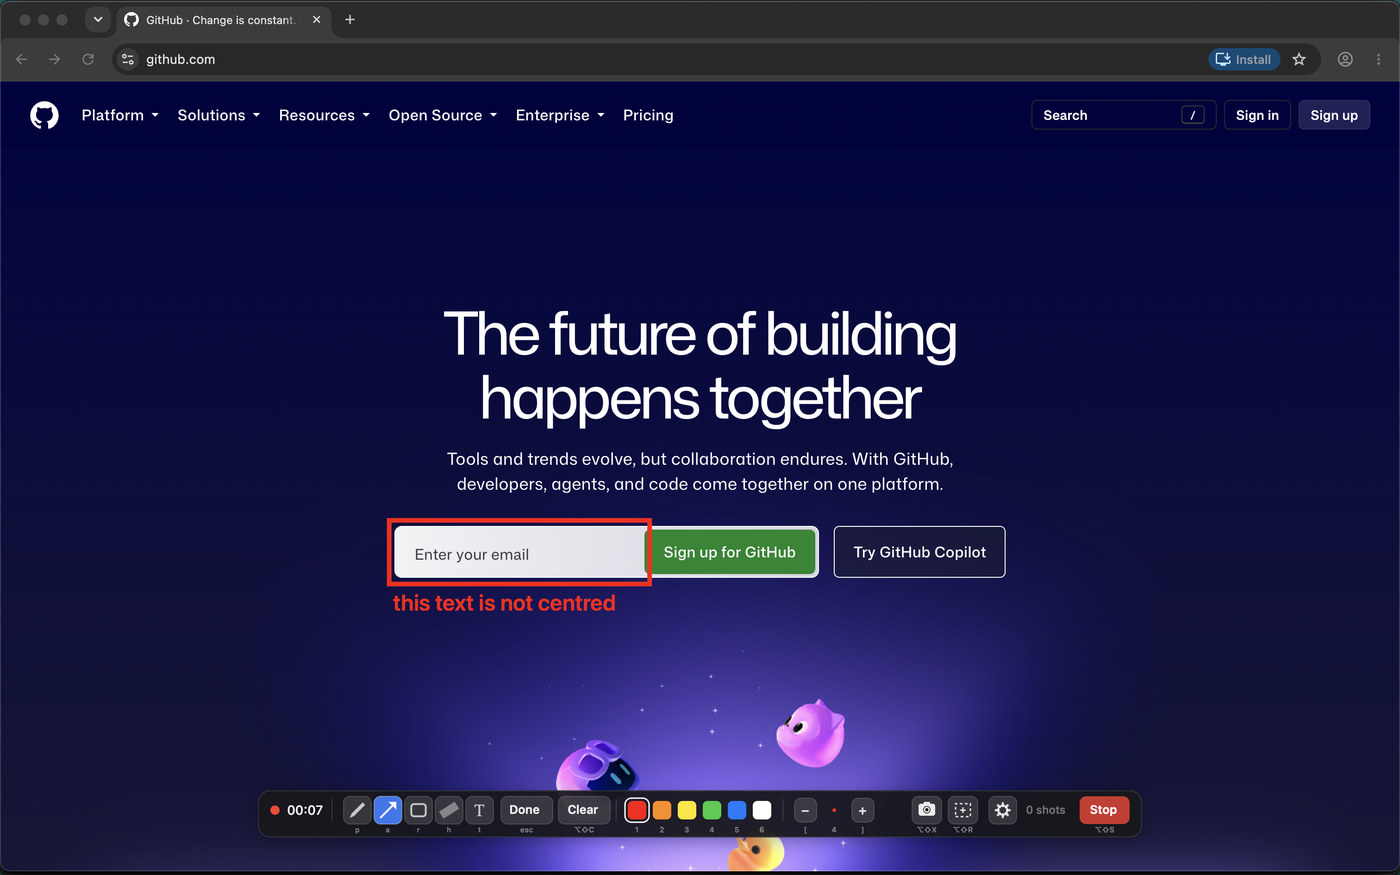
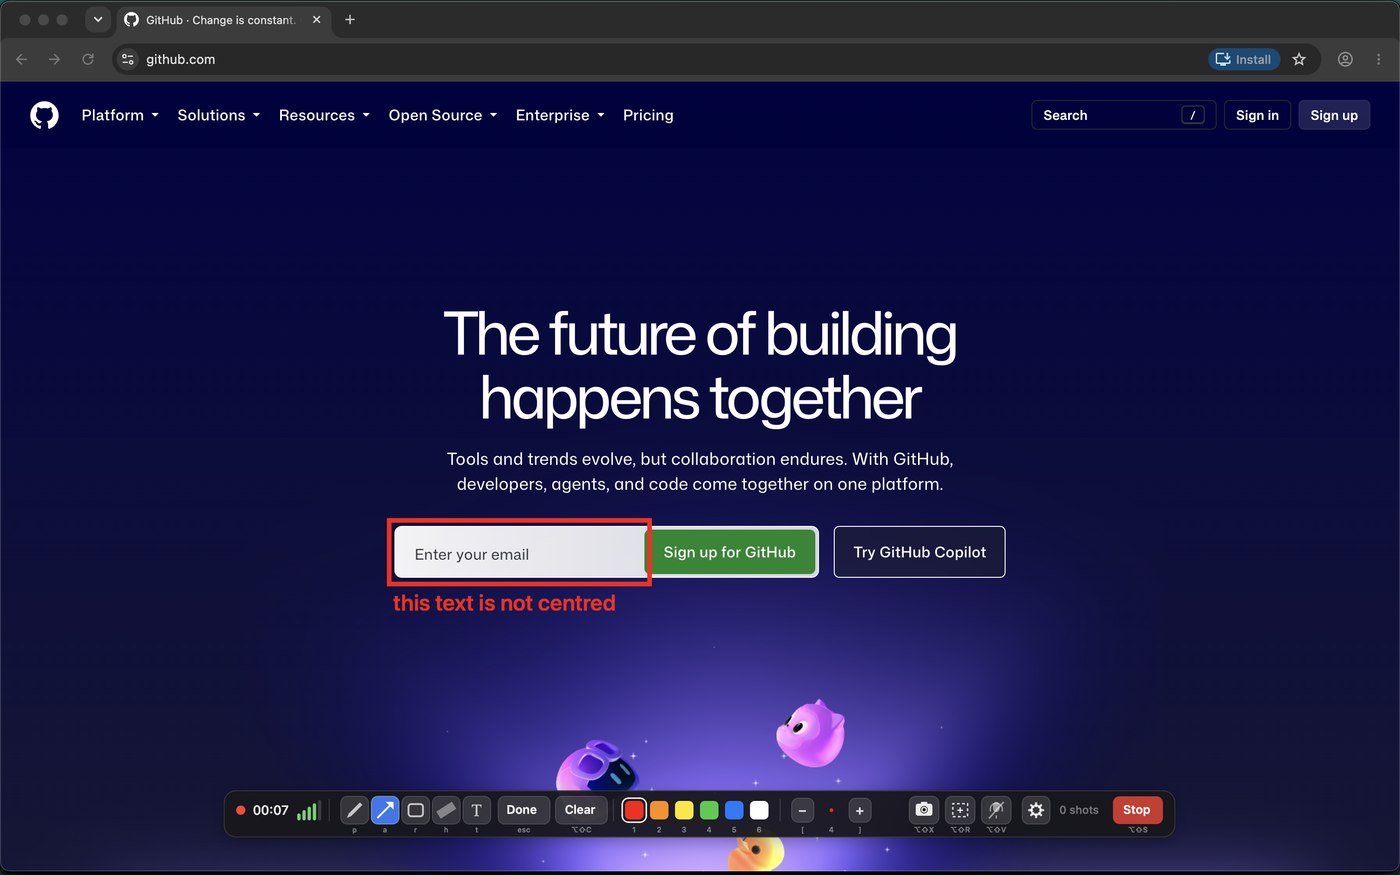
Retake the readme shots for the row as it is now
The row carries two controls it did not: the input meter beside the
clock and the microphone that starts and stops spoken commands. Both
shots are rebuilt by the same script, over a real page in a signed out
browser, cropped from the frame the overlay reports with equal padding
on every side, so the bar sits in the middle of its own picture.

The poster writes a level for the meter to show. There is no recorder
behind a poster, so without it the picture advertised the meter in the
one state that means it has heard nothing yet, which is both the least
useful thing to show and not what a session looks like.

Claude-Session: https://claude.ai/code/session_01KVqbHS35gSdnQijySab5HQ

Changed region(s): [[0.1536, 0.8949, 0.5529, 0.9566], [0.645, 0.8949, 0.86, 0.9566]]

diff --git a/overlay/Overlay+Probes.swift b/overlay/Overlay+Probes.swift
@@ -312,6 +312,27 @@ extension Overlay {
   // Apple's business and needs a permission a test cannot grant, but what this
   // tool does with a heard sentence is this tool's business and is decided
   // here, so it is answered without a microphone or a person.
+  // One second of a voice at a conversational level, written where the recorder
+  // would have written it.
+  func writePosterLevel() {
+    let directory = session + "/levels"
+    try? FileManager.default.createDirectory(atPath: directory,
+                                             withIntermediateDirectories: true)
+    let frames = 16000
+    var samples = [Int16](repeating: 0, count: frames)
+    for index in 0..<frames {
+      // A tone rather than noise, because what is being drawn is one number and
+      // a tone reaches it with arithmetic anybody can check. The amplitude puts
+      // the meter around two thirds up, which is where speech sits.
+      let phase = Double(index) * 2 * Double.pi * 180 / 16000
+      samples[index] = Int16(sin(phase) * 2300)
+    }
+    let data = samples.withUnsafeBufferPointer { Data(buffer: $0) }
+    for name in ["0.pcm", "1.pcm"] {
+      try? data.write(to: URL(fileURLWithPath: directory + "/" + name))
+    }
+  }
+
   func probeGrammar() {
     let source = ProcessInfo.processInfo.environment["RF_VOICE_HEARD"] ?? ""
     let heard = (try? String(contentsOfFile: source, encoding: .utf8)) ?? ""
@@ -594,6 +615,13 @@ extension Overlay {
     guard let screen = NSScreen.main else { return }
     let size = screen.frame.size
     let quiet = ProcessInfo.processInfo.environment["RF_POSTER_QUIET"] == "1"
+
+    // A level for the meter to show. There is no recorder behind a poster, so
+    // without this the picture advertises the meter in the one state that means
+    // it has heard nothing yet, which is both the least useful thing to show
+    // and not what a session looks like.
+    writePosterLevel()
+    inputLevel.poll()
 
     if !quiet {
       setDrawing(true)

diff --git a/README.md b/README.md
@@ -123,17 +123,18 @@ gear in the palette or its menu bar item.
 The palette has two rows. While you are only talking it stays out of the
 way:
 
-![The quiet palette: timer, draw, screenshot, region, settings, shot count and stop](docs/screenshots/palette-quiet.png)
+![The quiet palette: timer, input meter, draw, screenshot, region, spoken commands, settings, shot count and stop](docs/screenshots/palette-quiet.png)
 
 and it opens into the full row when you start drawing:
 
-![The full palette: timer, five tools, done, clear, six colours, width, capture, settings, shot count and stop](docs/screenshots/palette.png)
+![The full palette: timer, input meter, five tools, done, clear, six colours, width, capture, spoken commands, settings, shot count and stop](docs/screenshots/palette.png)
 
 Every key is written under the control it belongs to, so the palette is
-also the reminder. Left to right: how long the session has run, the five
-tools, the two ways back out of a mistake, the six colours, the width,
-the two capture keys, the settings gear, how many screenshots you have
-taken, and stop.
+also the reminder. Left to right: how long the session has run, whether
+it can hear you, the five tools, the two ways back out of a mistake, the
+six colours, the width, the two capture keys, the microphone that starts
+and stops spoken commands, the settings gear, how many screenshots you
+have taken, and stop.
 
 The marks are on the screen, so they are inside the image. A region
 capture crops the same marks.
